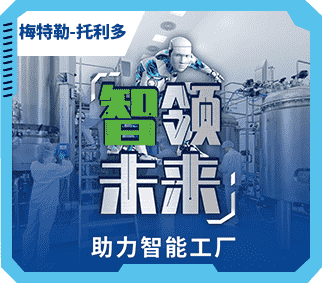
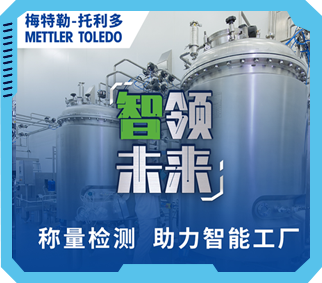
智能研讨会完成

diff --git a/views/znyth.html b/views/znyth.html
@@ -13,7 +13,8 @@
     <meta charset="UTF-8">
     <meta name="viewport" content="width=device-width, initial-scale=1.0, maximum-scale=1.0, user-scalable=no" />
     <title>百度智能制造研讨会</title>
-    <link rel="stylesheet" href="./public/css/reset.css">
+    <link rel="stylesheet" href="../public/css/reset.css">
+    <link rel="stylesheet" href="../public/css/swiper.min.css">  
     <style> 
         body{
             
@@ -154,6 +155,29 @@
             height: 3.62rem;
             background: url('../public/images/znyth/ppzg-3.png') no-repeat;
             background-size: 100%;
+            display: inline-block;
+           
+        }
+        .ppzg-7{
+            width: 3.23rem;
+            height: 3.62rem;
+            background: url('../public/images/znyth/ppzg-7.png') no-repeat;
+            background-size: 100%;
+            display: inline-block;
+           
+        }
+        .ppzg-8{
+            width: 3.23rem;
+            height: 3.62rem;
+            background: url('../public/images/znyth/ppzg-8.png') no-repeat;
+            background-size: 100%;
+            display: inline-block;
+           
+        }
+        .ppzg-5{
+            width: 3.23rem;
+            height: 3.62rem;
+            /* background:red; */
             display: inline-block;
            
         }
@@ -433,12 +457,10 @@
                 <div class="bt"></div>
                 <div class="znzz-box">
                     <a href="https://m.misumi.com.cn/misumipr/BDBrandlink_caigou_02/?utm_source=baidu&utm_medium=display&utm_campaign=baidu_znzztb&utm_term=cp&utm_content=znzztb"><div class="znzz-1"></div></a>
-                    <a href="https://aisite.wejianzhan.com/site/mt.com/129f9423-e0e9-414c-8689-3f33af49f5e4"><div class="znzz-2"></div></a>
                     <a href="https://www.te.com.cn/chn-zh/industries/industrial-machinery/applications/robot-arm.html?tab=pgp-story&te_bu=Cor&te_type=disp&te_campaign=bai_chn_cor-bai-chn-disp-selectmktg-fy20-kp-3-lp-produc_sma-1601_20&elqCampaignId=94962"><div class="znzz-3"></div></a>
+                    <a href="https://aisite.wejianzhan.com/site/mt.com/129f9423-e0e9-414c-8689-3f33af49f5e4"><div class="znzz-2"></div></a>
                     <a href="https://www.keyence.com.cn/?ad=gaad20200907ciif"> <div class="znzz-4"></div></a>
                     <a href="https://www.rockwellautomation.com/zh-cn.html"><div class="znzz-5"></div></a>
-                    
-
                 </div>
             </div>
             <div class="dkql">
@@ -448,10 +470,17 @@
             <div class="ppzg" >
                 <div class="ppzg-bt"></div>
                 <div class="ppzg-box">
-                    <div class="ppzg-1"></div>
-                    <div class="ppzg-2"></div>
-                    <a href="https://www.mt.com/cn/zh/home/products/Industrial_Weighing_Solutions/AutomPrecision/load-cell-and-weigh-module/compression-wm/powermount.html?cmp=sea_21151207"><div class="ppzg-3"></div></a>
+                    <a href="https://m.misumi.com.cn/vona2/detail/110310251369/?utm_source=baidu&utm_medium=display&utm_campaign=baidu_znzz&utm_term=cp&utm_content=ct"><div class="ppzg-1"></div></a>
+                    <a href="https://m.misumi.com.cn/vona2/detail/110310313829/?utm_source=baidu&utm_medium=display&utm_campaign=baidu_tbd&utm_term=cp&utm_content=tbd"> <div class="ppzg-2"></div></a>
+                    <div class="swiper-container ppzg-5">
+                        <div class="swiper-wrapper">
+                          <div class="swiper-slide"><a href="https://www.mt.com/cn/zh/home/products/Industrial_Weighing_Solutions/AutomPrecision/load-cell-and-weigh-module/compression-wm/powermount.html?cmp=sea_21151207"><div class="ppzg-3"></div></a></div>
+                          <div class="swiper-slide"><a href="https://www.mt.com/cn/zh/home/products/Process-Analytics/pH-probe/pH-ISM-accessories/calibration-and-maintenance.html?cmp=sea_16151207"><div class="ppzg-7"></div></a></div>
+                        </div>
+                    </div>
                     <a href="https://www.te.com.cn/chn-zh/trends/industry-4-digital-factory-production/digital-transformation.html?te_bu=Cor&te_type=disp&te_campaign=bai_chn_cor-bai-chn-disp-selectmktg-fy20-kp-3-lp-banner_sma-1601_19&elqCampaignId=94961"><div class="ppzg-4"></div></a>
+                    
+                    
                 </div>
                 <div class="ck"></div>
             </div>
@@ -519,7 +548,10 @@
         window.jp =''
         var timer =null 
         var tpjs =0
-
+        var mySwiper = new Swiper('.swiper-container', {
+            autoplay: true,
+            loop: true
+        })
         timer=setInterval(function (param) {  
             if(tpjs ==15){
                 tpjs=0

diff --git a/views/lfx.html b/views/lfx.html
@@ -445,7 +445,7 @@
                       <div class="swiper-slide"><img src="../public/images/fx-2.jpg" alt=""></div>
                       <div class="swiper-slide"><img src="../public/images/fx-3.jpg" alt=""></div>
                     </div>
-                  </div>
+                </div>
             </div>
             <div class="yq-b"> 
                 <img src="../public/images/kzj.png" alt="">
